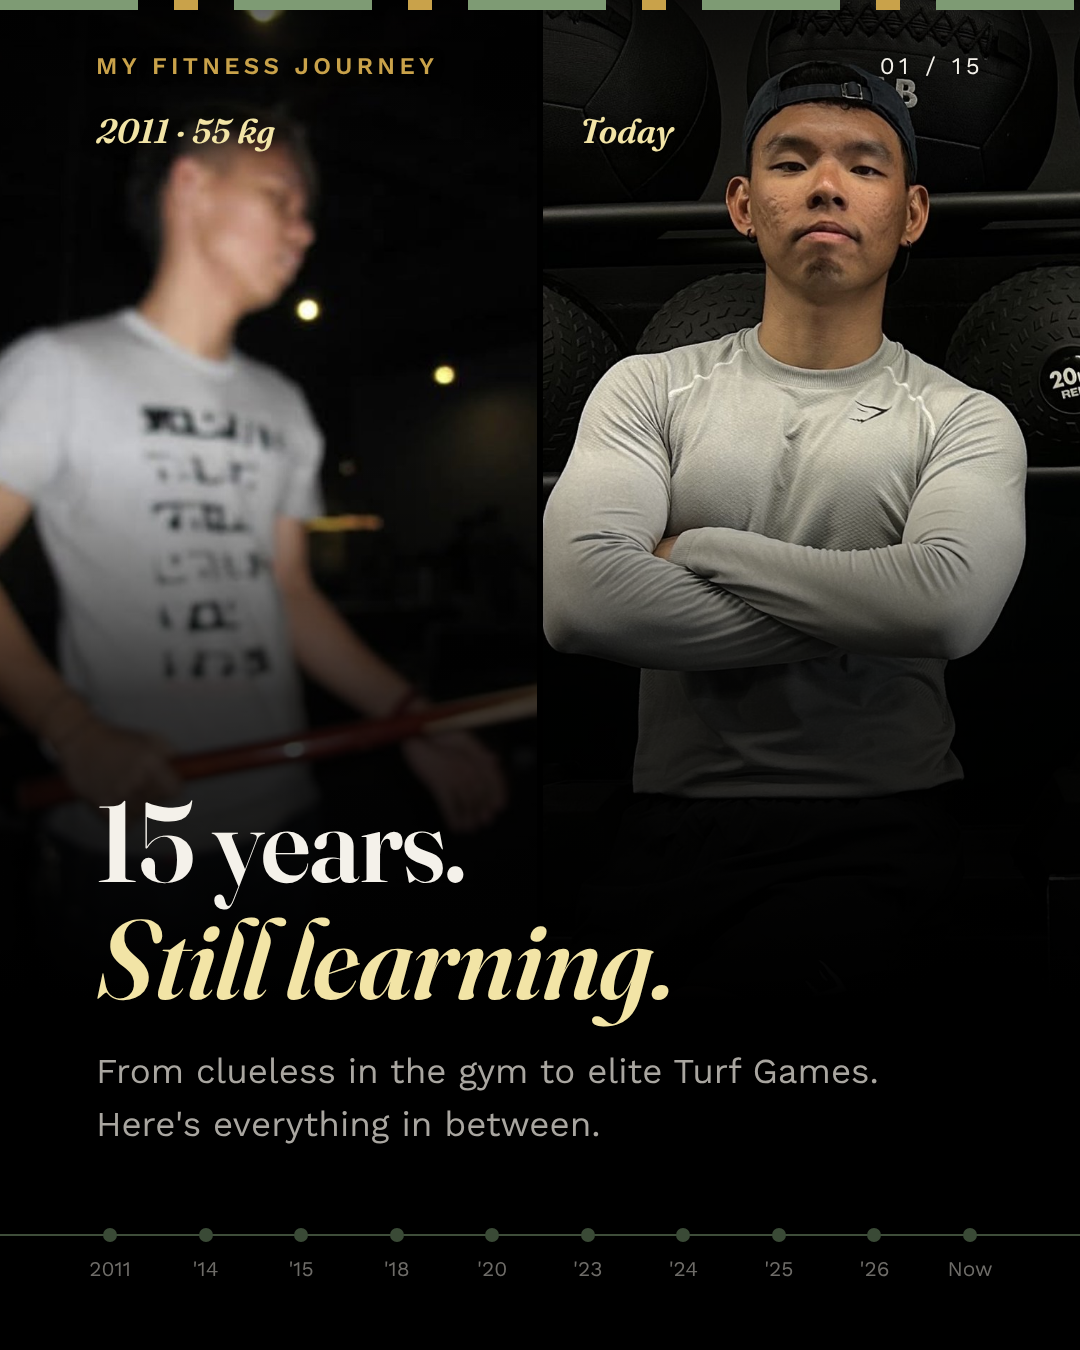
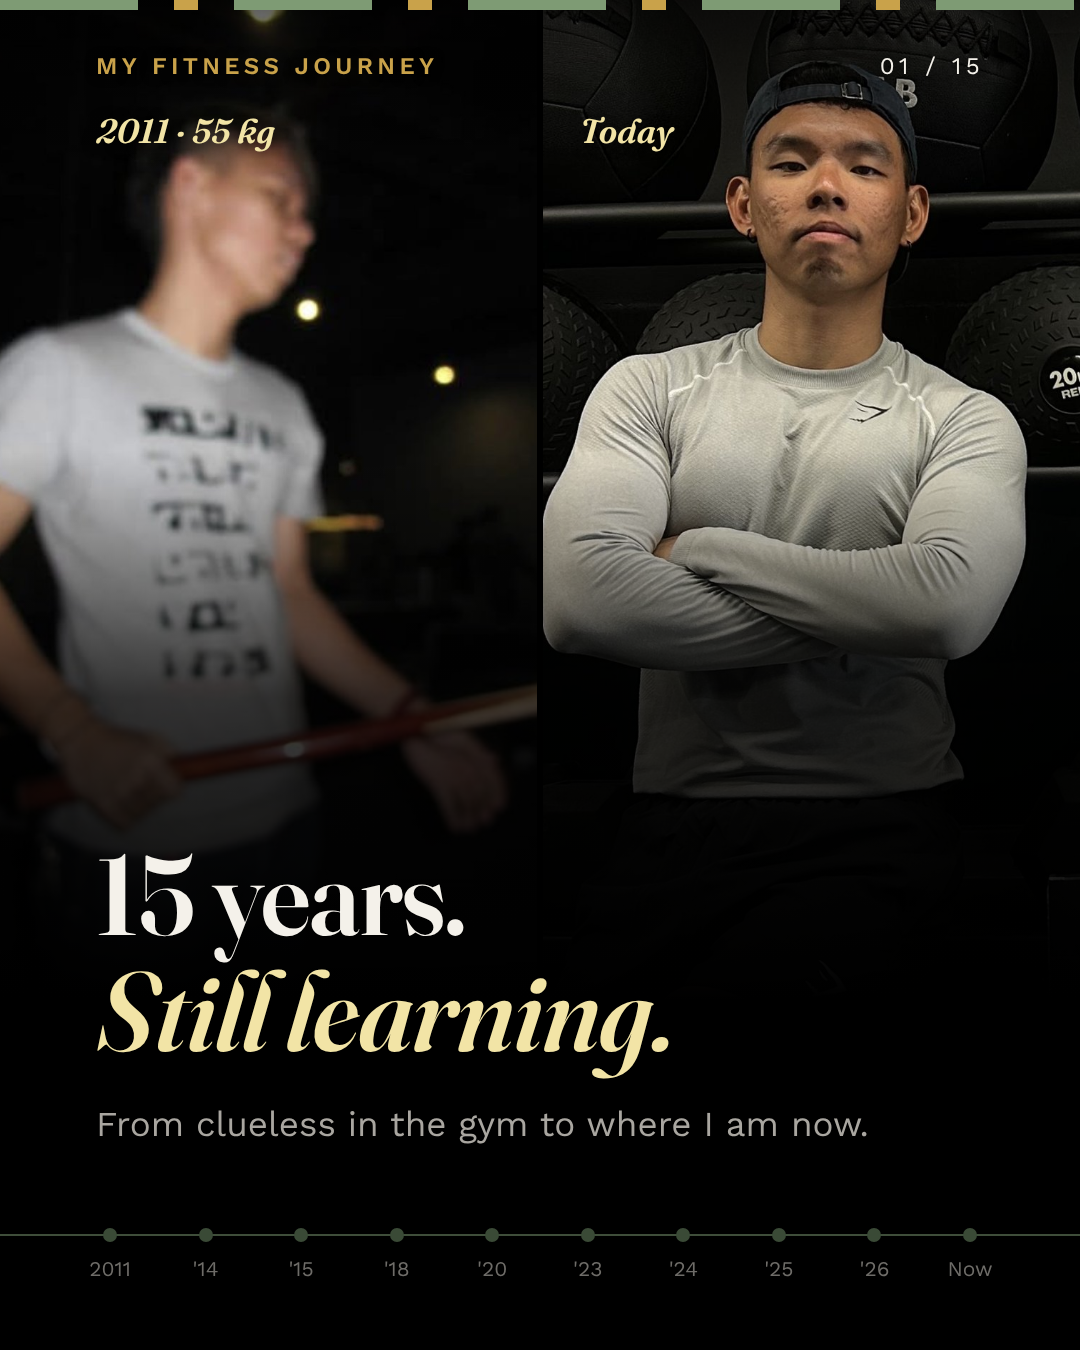
Journey carousel: revise cover subline
Claude-Session: https://claude.ai/code/session_01QNxkYZ2h6udsyHuSyBd6uT

Changed region(s): [[0.0917, 0.5911, 0.7944, 0.8711]]

diff --git a/instagram/fitness-journey.html b/instagram/fitness-journey.html
@@ -126,7 +126,7 @@
     </div>
     <div class="top"><span class="tag" contenteditable>My fitness journey</span><span class="count"></span></div>
     <h1 contenteditable>15 years. <em>Still learning.</em></h1>
-    <p class="sub" contenteditable>From clueless in the gym to elite Turf Games. Here's everything in between.</p>
+    <p class="sub" contenteditable>From clueless in the gym to where I am now.</p>
     <div class="timeline"></div>
   </section>
 
